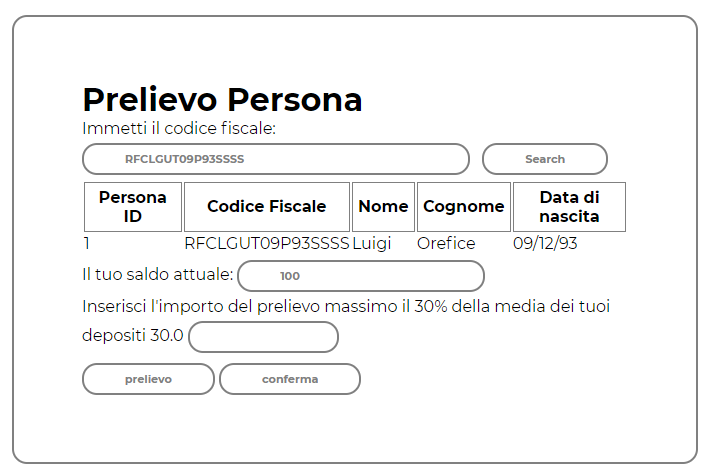
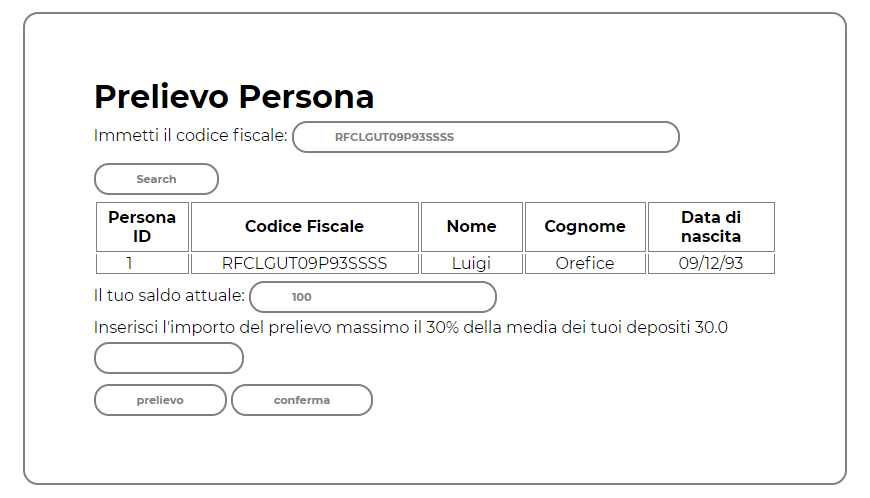
ok

diff --git a/Banca/src/main/resources/templates/prelievo_conto_aziendale.html b/Banca/src/main/resources/templates/prelievo_conto_aziendale.html
@@ -22,6 +22,18 @@
 			border: 1px solid grey;
 			padding: 5px;
 		}
+			td{
+			border-left: 1px solid grey;
+			border-right: 1px solid grey;
+			border-bottom: 1px solid grey;
+			padding: 0 30px;
+		}
+			.card{
+			min-width: 50% !important;
+		}
+		h1{
+			width: 100%;
+		}
 
 
 	</style>

diff --git a/Banca/src/main/resources/templates/prelievo_conto_personale.html b/Banca/src/main/resources/templates/prelievo_conto_personale.html
@@ -21,6 +21,18 @@
 			border: 1px solid grey;
 			padding: 5px;
 		}
+			td{
+			border-left: 1px solid grey;
+			border-right: 1px solid grey;
+			border-bottom: 1px solid grey;
+			padding: 0 30px;
+		}
+			.card{
+			min-width: 50% !important;
+		}
+		h1{
+			width: 100%;
+		}
 
 
 	</style>
